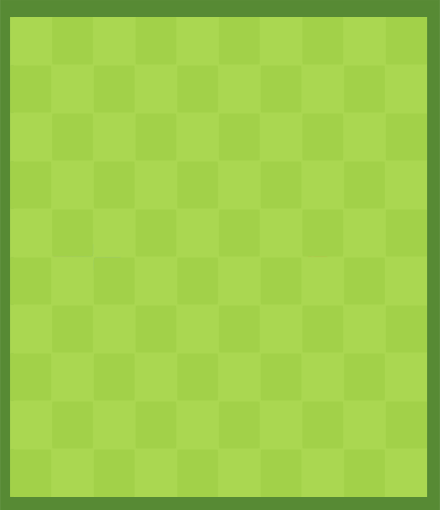
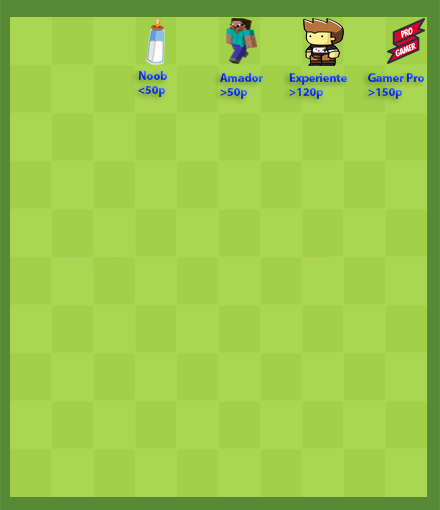
version 1.5

diff --git a/GAMENEW.py b/GAMENEW.py
@@ -4,8 +4,8 @@ from pygame.locals import *
 from random import randint
 import time
 
-__BY__= 'Feito por : Roni And Bruno'
-__VER__= 'Version: 1.2'
+BY= 'Feito por : Roni And Bruno'
+VER= 'Version: 1.2'
 #Audio
 pygame.mixer.init()
 derrota = pygame.mixer.Sound('audios/morte.wav')
@@ -15,7 +15,7 @@ clique = pygame.mixer.Sound('audios/clique.wav')
 def audios():
     musicas = ['audios/Tetris.ogg','audios/musica2.ogg']
     pygame.mixer.music.load(musicas[randint(0,1)])
-    pygame.mixer.music.play()
+    pygame.mixer.music.play(loops=20)
 
     pygame.mixer.music.set_volume(0.5)
 
@@ -87,7 +87,6 @@ def MenuInicial():
         if verificaMouse(botaoMuteoff, posBotaoMuteoff, xy) == True:
             if event.type == MOUSEBUTTONDOWN and event.button == 1:
                 audios()
-                pygame.mixer.music.play()
                 clique.play()
                 muteonoff = 0
         if verificaMouse(botaoExit, posBotaoExit, xy) == True:
@@ -101,8 +100,13 @@ def MenuInicial():
 
 def iniciar():
     # Cores
-    AZUL = (0, 0, 255)
+    corcomida = (255, 0, 0)
+    cordacobra = (randint(0,255),randint(0,255), randint(0,255))
 
+    noob = (0,0,0)
+    amador = (0,0,255)
+    experiente = (255,0,255)
+    pro = (255, 0, 0)
 
 
     # Tamanho da janela
@@ -157,7 +161,18 @@ def iniciar():
     mainClock = pygame.time.Clock()
 
     while not morto:
+
         fundoJanela.blit(fundodojogo, (0, 0))
+
+        if pontos < 50:
+            cordacobra = noob
+        if pontos > 50 and pontos <120:
+            cordacobra = amador
+        if pontos > 120 and pontos <150:
+            cordacobra = experiente
+        if pontos > 150:
+            cordacobra = pro
+
         # Vemos se o evento QUIT ocorreu
         for event in pygame.event.get():
             if event.type == QUIT:
@@ -226,6 +241,7 @@ def iniciar():
                 y1 = randint(0, 17)
                 comidaXY = [int(x1 * 20) + 10, int(y1 * 20) + 120]
                 if snake.count(comidaXY) == 0:
+                    corcomida = (255, 0, 0)
                     comida = 1
                     break
 
@@ -237,6 +253,7 @@ def iniciar():
             comeu.play()
             comida = 0
             pontos += 5
+
         else:
             # remove a cauda
             snake.pop()
@@ -249,10 +266,10 @@ def iniciar():
 
         # Texto
         font = pygame.font.Font(None, 36)
-        text = font.render("Score: " + str(pontos), 1, (200, 200, 200))
+        text = font.render("Score: " + str(pontos), 1, (0, 0, 0))
         textpos = text.get_rect()
-        textpos.left = 75
-        textpos.top = 45
+        textpos.left = 20
+        textpos.top = 50
         fundoJanela.blit(text, textpos)
 
         # Fundo jogo
@@ -260,10 +277,10 @@ def iniciar():
 
         # desenha a serpente
         for x in snake:
-            pygame.draw.rect(fundoJanela, AZUL, Rect(x, bloco))
+            pygame.draw.rect(fundoJanela, cordacobra, Rect(x, bloco))
 
         # desenha a comida
-        pygame.draw.rect(fundoJanela, (100, 100, 100), Rect(comidaXY, bloco))
+        pygame.draw.rect(fundoJanela, (corcomida), Rect(comidaXY, bloco))
 
         # desenha os objectos no ecra
         pygame.display.update()
@@ -288,8 +305,7 @@ def gameover():
         time.sleep(3)
         running = False
 def developers():
-    print(__BY__)
-    print(__VER__)
+    print(BY)
+    print(VER)
 
 MenuInicial()
-
